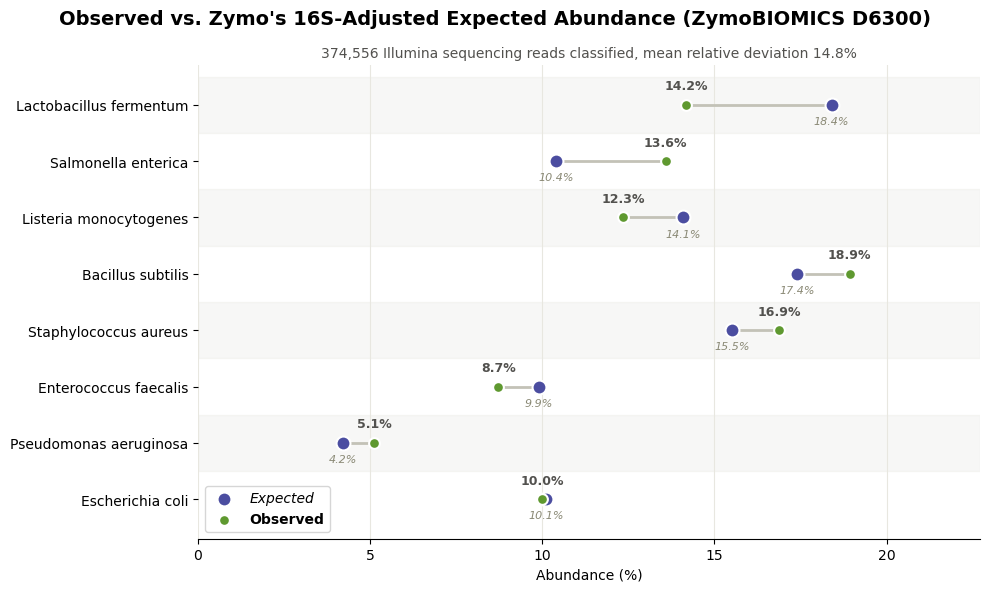
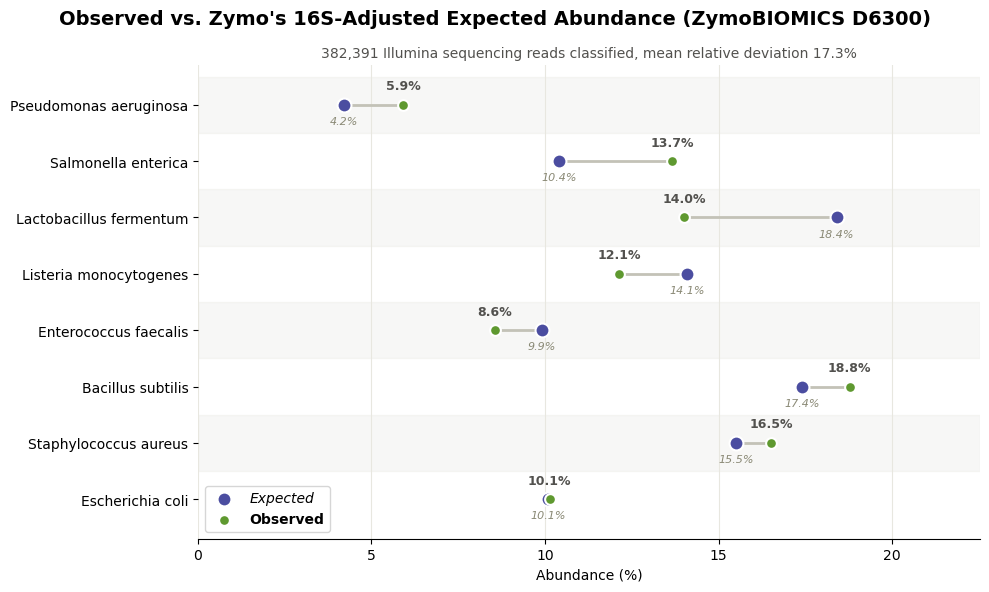
Updated README and figures in docs to represent these new changes.

diff --git a/docs/plot_zymobiomics_validation.py b/docs/plot_zymobiomics_validation.py
@@ -69,7 +69,13 @@ def plot_abundance_comparison(observed: dict[str, float], expected: dict[str, fl
     against its expected abundance (%), sorted by the size of the miss
     (largest deviation first, so the reader's eye lands there).
     """
-    species = sorted(observed.keys(), key=lambda s: abs(observed[s] - expected[s]), reverse=True)
+    # Sorted by RELATIVE deviation, matching the metric the subtitle reports.
+    # Absolute deviation (percentage points) was used here previously and
+    # disagreed with the subtitle: it ranks a 4.4pp miss on an 18.4%-expected
+    # species above a 1.7pp miss on a 4.2%-expected one, even though the latter
+    # is the far larger relative error and the one worth the reader's eye.
+    species = sorted(observed.keys(),
+                     key=lambda s: abs(observed[s] - expected[s]) / expected[s], reverse=True)
     expected_vals = [expected[s] for s in species]
     observed_vals = [observed[s] for s in species]
 

diff --git a/README.md b/README.md
@@ -64,6 +64,11 @@ them with `--help` for their options.
 
 - **k-mer indexing**: every reference genome is broken into overlapping
   k-mers (default k=21) and indexed as `{kmer: set of species}`.
+- **Canonical k-mers**: DNA is double-stranded and a sequencer reports
+  whichever strand it read, without saying which. Every k-mer is stored and
+  looked up as `min(kmer, reverse_complement(kmer))`, so both strands of a
+  fragment collapse onto one key and a read matches regardless of orientation.
+  This is what Kraken2 and other k-mer classifiers do, for the same reason.
 - **Classification**: each read is broken into the same k-mers, and the
   species with the most matching k-mers wins ("top hit"), with a confidence
   score based on vote share. A read is only assigned when one species holds
@@ -86,53 +91,89 @@ them with `--help` for their options.
 ### Validated accuracy
 
 Classified 390,381 real Illumina reads (SRA accession SRR10391187) against a
-10-species ZymoBIOMICS D6300 reference index (k=21, 68.66M k-mers).
+10-species ZymoBIOMICS D6300 reference index (k=21, 65.46M canonical k-mers).
+2.05% of reads were unclassified.
 
 SRR10391187 is 16S rRNA amplicon sequencing (confirmed via SRA's own run
-metadata), so accuracy is measured against Zymo's own 16S-adjusted
-theoretical composition, avoiding a flat per-species split, since rRNA copy
-number varies a lot between species:
+metadata), so accuracy is measured against Zymo's 16S-adjusted theoretical
+composition rather than a flat per-species split, since rRNA copy number varies
+a lot between species:
 
-| Species | Genomic DNA | 16S Only | 16S & 18S |
+| Species | Expected (16S) | Observed | Relative deviation |
 |---|---|---|---|
-| Pseudomonas aeruginosa | 12% | 4.2% | 3.6% |
-| Escherichia coli | 12% | 10.1% | 8.9% |
-| Salmonella enterica | 12% | 10.4% | 9.1% |
-| Lactobacillus fermentum | 12% | 18.4% | 16.1% |
-| Enterococcus faecalis | 12% | 9.9% | 8.7% |
-| Staphylococcus aureus | 12% | 15.5% | 13.6% |
-| Listeria monocytogenes | 12% | 14.1% | 12.4% |
-| Bacillus subtilis | 12% | 17.4% | 15.3% |
-| Saccharomyces cerevisiae | 2% | NA | 9.3% |
-| Cryptococcus neoformans | 2% | NA | 3.3% |
+| Lactobacillus fermentum | 18.4% | 14.01% | 23.9% |
+| Bacillus subtilis | 17.4% | 18.78% | 7.9% |
+| Staphylococcus aureus | 15.5% | 16.52% | 6.6% |
+| Listeria monocytogenes | 14.1% | 12.13% | 14.0% |
+| Salmonella enterica | 10.4% | 13.66% | 31.4% |
+| Escherichia coli | 10.1% | 10.13% | 0.3% |
+| Enterococcus faecalis | 9.9% | 8.56% | 13.5% |
+| Pseudomonas aeruginosa | 4.2% | 5.92% | 40.9% |
 
-(Source: [Zymo's D6300 datasheet](https://files.zymoresearch.com/protocols/_d6300_zymobiomics_microbial_community_standard.pdf),
-Table 1. "16S Only" is copy-number-adjusted for standard bacterial 16S
-primers, which is why the yeasts show `NA`, not `0%`; those primers don't
-amplify fungal rRNA at all. These represent theoretical ideal yields from 16S.)
+Mean relative deviation across the 8 bacteria is 17.3%. Expected values are
+Zymo's published "16S Only" column ([D6300 datasheet](https://files.zymoresearch.com/protocols/_d6300_zymobiomics_microbial_community_standard.pdf),
+Table 1), which is rRNA-copy-number adjusted for standard bacterial primers.
+The two yeasts come out at 0.27% and 0.03%; Zymo lists them as `NA` in that
+column because bacterial 16S primers do not amplify fungal rRNA at all.
 
-Winner-take-all classification (each read's full weight goes to its best
-match) lands within 14.8% mean relative deviation of that target across
-the 8 bacteria (Zymo's own protocol states <15% relative abundance deviation). The two yeasts are basically invisible in this data, which is intentional.  
-Bacterial 16S primers don't pick up fungal
-rRNA, and Zymo's own 16S numbers list the yeasts as not applicable. Our
-observed 0.06% and 0.22% line up with that.
+**Pseudomonas aeruginosa is the largest miss, and that is the expected
+behaviour of this method.** Zymo's own bioinformatics appendix states that
+conserved rRNA sequences cause reads from high-abundance microbes to be
+assigned to low-abundance ones, "resulting in the overestimation of
+low-abundance microbes in the standard". P. aeruginosa has the lowest
+16S-adjusted expectation in the panel: Zymo's formula is
+`16S share proportional to (DNA fraction / genome size) x copies per genome`,
+and it has both the largest genome (6.792 Mb) and the fewest 16S copies (4).
+It is the low-abundance species the appendix describes, and it is
+overestimated.
 
-Two alternatives were tested and rejected in favor of winner-take-all.
-Proportional vote-share redistribution (splitting a read's credit across
-every species it hits, instead of giving it all to one winner) comes in
-worse, at 27.3% mean deviation. Discarding ambiguous multi-genome reads
-entirely, Zymo's own suggested fix for this kind of ambiguity, throws away
-93.7% of the reads here and still lands at 138.7%, since with 16S amplicon
-data almost every read overlaps a region shared across species.
-Winner-take-all wins clearly, so that's the reported method.
+The structural reason is visible in the data. 92.35% of reads match 8 of the
+10 indexed species, and only 3.77% match exactly one. For almost every read the
+classifier is choosing among species that all matched, on narrow k-mer vote
+margins inside a conserved gene.
+
+### Comparison of abundance estimation methods
+
+Three methods were measured on the same run. All three are reproducible from
+the saved `classifications.csv` via its `n_species_hit` column.
+
+| Method | Mean relative deviation | Reads used |
+|---|---|---|
+| Winner-take-all (default) | 17.3% | 100% |
+| Proportional vote redistribution (`--redistribute`) | 30.0% | 100% |
+| Discarding ambiguous reads | 161.7% | 3.77% |
+
+Redistribution splits each read's k-mer votes across every species it hit. It
+does worse because when 92% of reads hit everything, proportional splitting
+drives every estimate toward 1/8 = 12.5% and erases the signal.
+
+Discarding reads that match more than one genome is the fix Zymo's appendix
+suggests. It is by far the worst option here, because the uniquely-mapping
+reads are not a representative sample: P. aeruginosa is 4.2% of the community
+but 35.2% of them, while Staphylococcus aureus contributes 3 reads in total. On
+amplicon data the only reads that map uniquely come from the most
+phylogenetically distinct organism, so the remedy amplifies the bias it targets.
+
+Winner-take-all is the default for this reason.
+
+### A note on Zymo's <15% specification
+
+Zymo's datasheet lists "Relative Abundance Deviation in Average - <15%" under
+Specifications, alongside impurity level and cell concentration. It describes
+how far a manufactured lot deviates from the theoretical table, measured by
+Zymo's own shotgun sequencing and reported per-lot on a Certificate of
+Analysis. It is a tolerance on the physical material, not a benchmark for an
+analysis pipeline, and the datasheet sets no accuracy threshold for workflows.
+Deviation measured here is therefore reported as a number, not scored against
+that figure.
 
 ### Validation graphic
 
 ![Observed vs. Zymo's 16S-adjusted expected abundance for each bacterial species in the ZymoBIOMICS mock community](docs/abundance_validation.png)
 
-Same run as above, plotted against Zymo's 16S-adjusted composition. Yeasts
-aren't included, no valid 16S target to compare them against. Not a core
+Same run as above, plotted against Zymo's 16S-adjusted composition and sorted
+by relative deviation, matching the metric the subtitle reports. Yeasts aren't
+included, no valid 16S target to compare them against. Not a core
 part of the pipeline either; this only works because Zymo happens to
 publish real reference data to check against. Regenerate it after a fresh
 classification run with
@@ -156,10 +197,10 @@ interpret:
 
 Real output from the same 390,381-read ZymoBIOMICS run described above
 (`python src/pipeline.py --genome-dir data/reference/Genomes --index
-data/reference/kmer_index.pkl --reads data/raw/sra_reads/SRR10391187_1.fastq
---output-dir results/`). 4.1% of reads were unclassified here, most
-samples classify cleanly against a reference set that actually contains
-what's in them.
+data/reference/kmer_index_canonical.pkl --reads
+data/raw/sra_reads/SRR10391187_1.fastq --output-dir results/`). 2.05% of reads
+were unclassified here; most samples classify cleanly against a reference set
+that actually contains what's in them.
 
 Multi-sample comparison (`plot_multi_sample_abundance()`, a stacked bar
 across samples) exists in `visualization.py` and is used by
@@ -167,16 +208,20 @@ across samples) exists in `visualization.py` and is used by
 accumulate multiple runs into one comparable database.
 ### Performance baseline
 
-End-to-end timing on the 390,381-read / 68.66M-k-mer benchmark above:
+Full pipeline on the 390,381-read / 65.46M-canonical-k-mer benchmark above:
 
-- Index load: ~56s
-- Classification: ~68s (~5,700 reads/sec)
-- Total: ~134s
+- Index load: ~50s
+- Full pipeline (load, classify, database, diversity, plot): ~3m03s
+- Index build from 10 genomes: ~3m25s
 
-Reproduce with `src/benchmark.py`:
+Canonicalizing costs roughly 120 microseconds per 301bp read at k=21, which
+about doubles classification time against a forward-only index. That is the
+price of matching reads on either strand.
+
+Reproduce the classification stage with `src/benchmark.py`:
 
 ```bash
-python src/benchmark.py   --index data/reference/kmer_index.pkl   --reads data/raw/sra_reads/SRR10391187_1.fastq   --k 21
+python src/benchmark.py   --index data/reference/kmer_index_canonical.pkl   --reads data/raw/sra_reads/SRR10391187_1.fastq   --k 21
 ```
 
 `--sample-size N` classifies only the first N reads. Throughput on a small
@@ -186,9 +231,11 @@ sample runs higher than the full-run figure above, so quote the full run.
 
 Classification is deterministic: two runs over the same reads and index
 produce byte-identical `classifications.csv`, verified on the 390,381-read
-benchmark. Ties are what used to break this, and they are now left
-unclassified rather than resolved by set iteration order (see "How it
-works" above).
+benchmark against the canonical index (matching MD5). Ties are what used to
+break this, and they are now left unclassified rather than resolved by set
+iteration order (see "How it works" above). Ties affect 0.14% of reads here,
+and that figure is recomputable from a saved run via the `n_species_hit`
+column rather than being a number quoted from a one-off script.
 
 ### Docker
 
@@ -234,13 +281,14 @@ sequence-to-taxa-processor/
 
 ### Project status
 
-- **Done**: core k-mer classifier, proportional vote-splitting for
-  abundance estimates, real FASTA/FASTQ parsing, SQLite storage with
-  per-sample abundance queries, diversity metrics (species richness,
-  Shannon index), GC-outlier and read-quality QC (`qc.py`), a
-  species-abundance-by-sample visualization, a unified `pipeline.py` CLI,
-  CI running the test suite on every push, Docker containerization
-  (see above).
+- **Done**: core k-mer classifier with canonical (strand-agnostic) k-mers,
+  proportional vote-splitting for abundance estimates, real FASTA/FASTQ
+  parsing, a versioned on-disk index format validated on load, SQLite storage
+  with per-sample abundance queries and per-read ambiguity counts, diversity
+  metrics (species richness, Shannon index), GC-outlier and read-quality QC
+  (`qc.py`), a species-abundance-by-sample visualization, a unified
+  `pipeline.py` CLI, CI running the test suite on every push, Docker
+  containerization (see above).
 - **Not yet started**: Nextflow workflow orchestration, polished demo
   notebooks.
 
